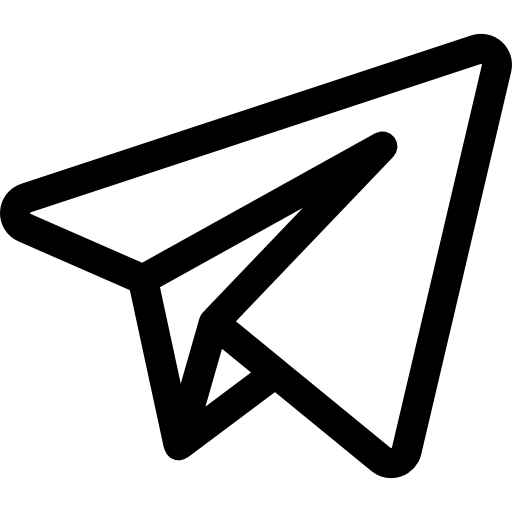
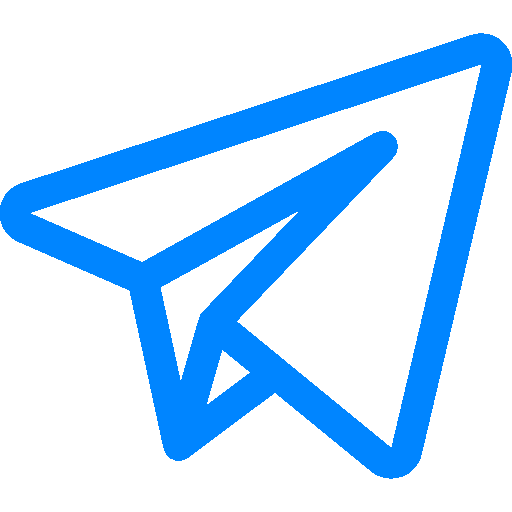
заменил иконки в футере

Changed region(s): [[0.0, 0.0625, 1.0, 0.9375]]

diff --git a/styles/styles.css b/styles/styles.css
@@ -65,14 +65,6 @@ a:hover{
     justify-content: space-evenly;
 }
 
-.lk_logo::before{
-    content: "👤 ";
-}
-
-.lk_f_logo::after{
-    content: " 👤";
-}
-
 h1
 {
     color: white;
@@ -178,8 +170,8 @@ h2
 .circle {
     background: #ffffff;
     clip-path: circle(50%);
-    height: 5em;
-    width: 5em;
+    height: 4em;
+    width: 4em;
     display: flex;
     align-items: center;
     justify-content: center;
@@ -192,8 +184,8 @@ h2
 
 .vk
 {
-    width: 50px;
-    height: 50px;
+    width: 40px;
+    height: 40px;
     background-image: url(../img/vk.png);
     background-repeat: no-repeat;
     background-position: center;
@@ -202,8 +194,8 @@ h2
 
 .tg
 {
-    width: 50px;
-    height: 50px;
+    width: 40px;
+    height: 40px;
     background-image: url(../img/tg.png);
     background-repeat: no-repeat;
     background-position: center;
